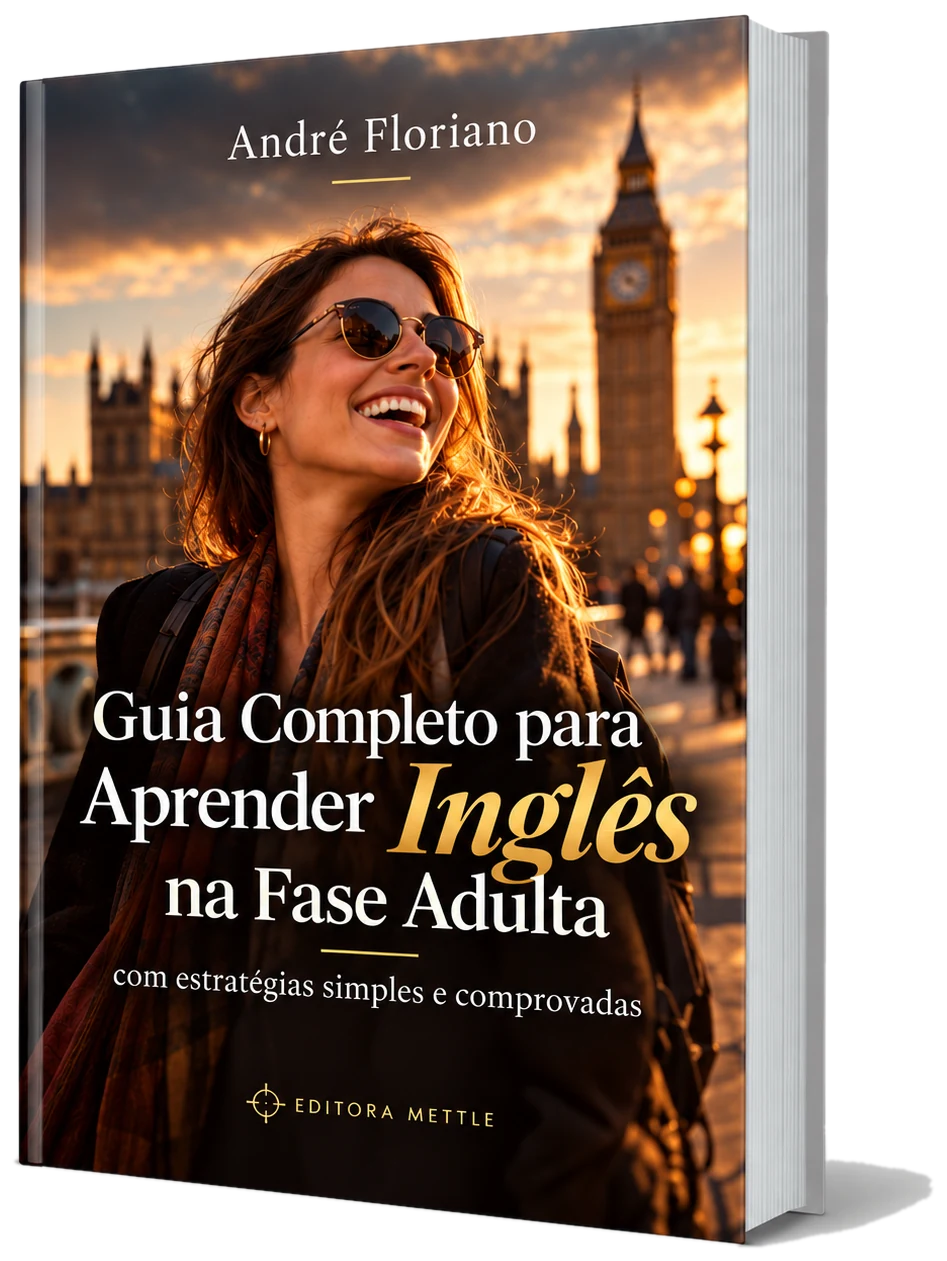
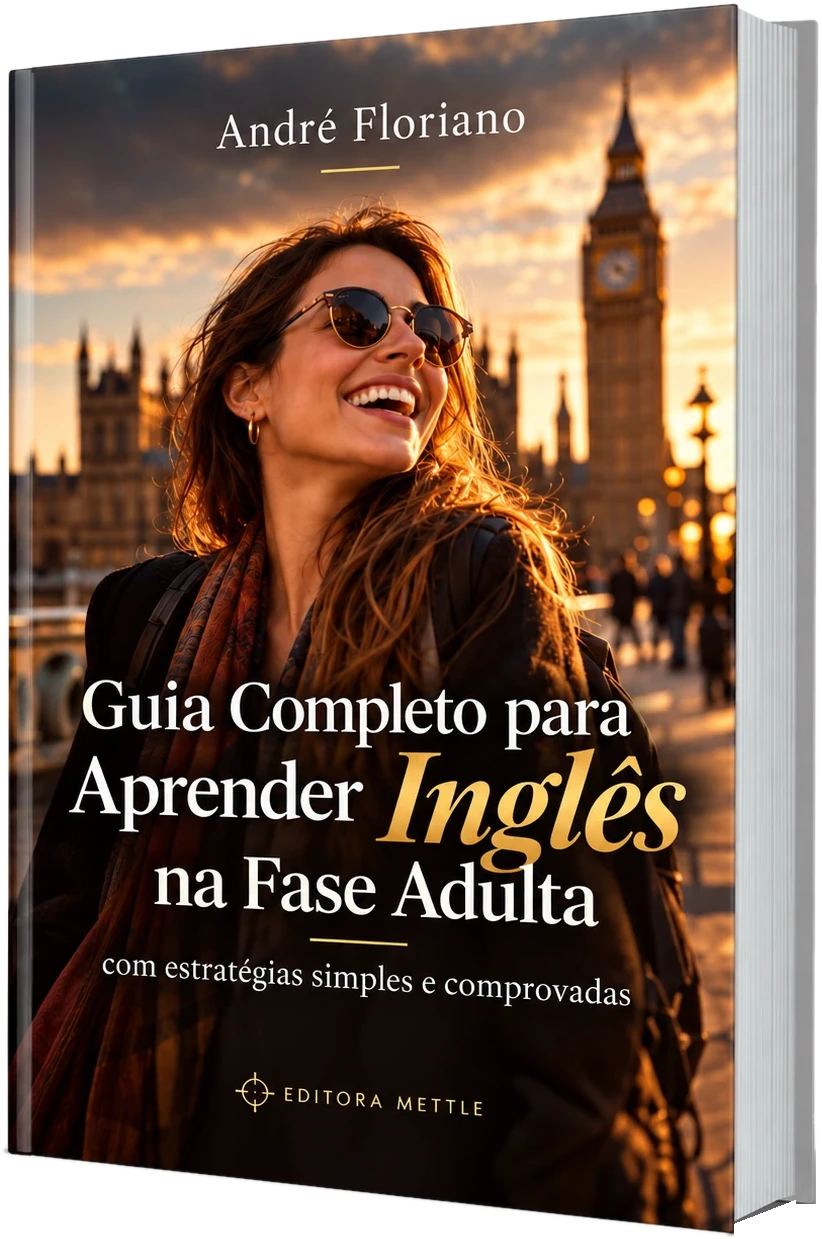
fix(ebook): card com a foto do livro em Londres; livro de /guia sem a sombra recortada

diff --git a/src/components/_new/NewHome.tsx b/src/components/_new/NewHome.tsx
@@ -138,9 +138,9 @@ export const NewHome: React.FC = () => {
                               })}
                         {!loading && ebook && (
                             <Link className="cc" href={EBOOK_PATH}>
-                                <span className="img book">
-                                    {/* eslint-disable-next-line @next/next/no-img-element -- o mesmo livro 3D de /guia (public/img) */}
-                                    <img src="/img/ebook-livro-3d.webp" alt="" loading="lazy" />
+                                <span className="img">
+                                    {/* eslint-disable-next-line @next/next/no-img-element -- foto do livro em Londres (public/img), escolhida pelo André */}
+                                    <img src="/img/ebook-card-londres.webp" alt="" loading="lazy" style={{ objectPosition: '38% 50%' }} />
                                 </span>
                                 <span className="meta">
                                     <small>E-book</small>

diff --git a/src/components/_new/ui.ts b/src/components/_new/ui.ts
@@ -255,29 +255,6 @@ export const Page = styled.div`
             transform 400ms ease,
             opacity var(--r-ease);
     }
-    /* e-book: vitrine. Pôr do sol da capa: âmbar profundo para café, brilho atrás do livro, sombra no chão */
-    .cc .img.book {
-        background:
-            radial-gradient(58% 68% at 50% 44%, rgba(244, 190, 112, 0.55), transparent 72%),
-            linear-gradient(165deg, #9c6733 0%, #5d3c22 46%, #2a1c13 100%);
-    }
-    .cc .img.book::after {
-        content: '';
-        position: absolute;
-        left: 24%;
-        right: 24%;
-        bottom: 4%;
-        height: 7%;
-        border-radius: 50%;
-        background: radial-gradient(closest-side, rgba(0, 0, 0, 0.6), transparent);
-        filter: blur(3px);
-    }
-    .cc .img.book img {
-        position: relative;
-        z-index: 1;
-        object-fit: contain;
-        padding: 5% 0 5%;
-    }
     .cc:hover img,
     .dc:hover:not(:disabled) img,
     .hc:hover img {
